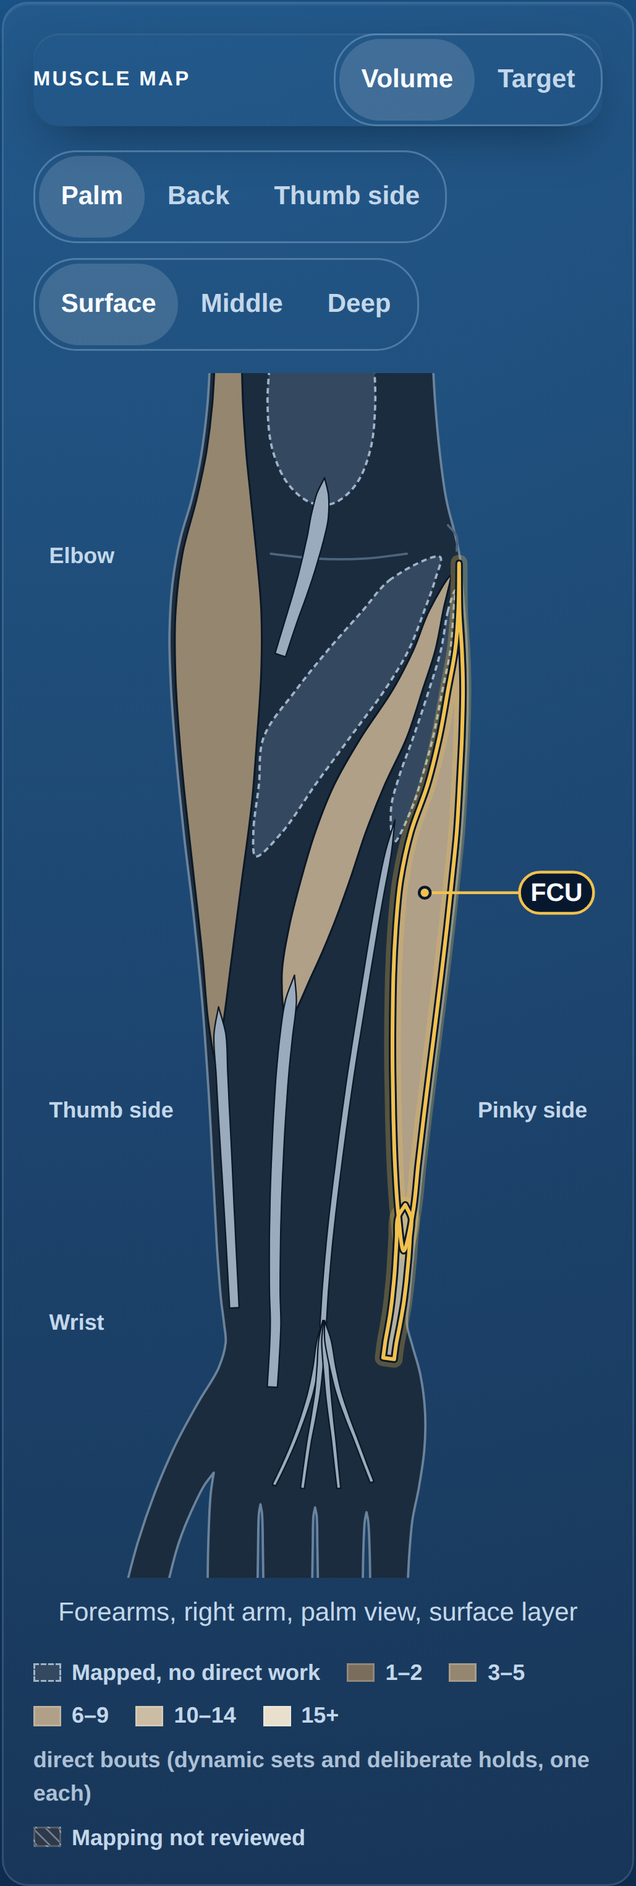
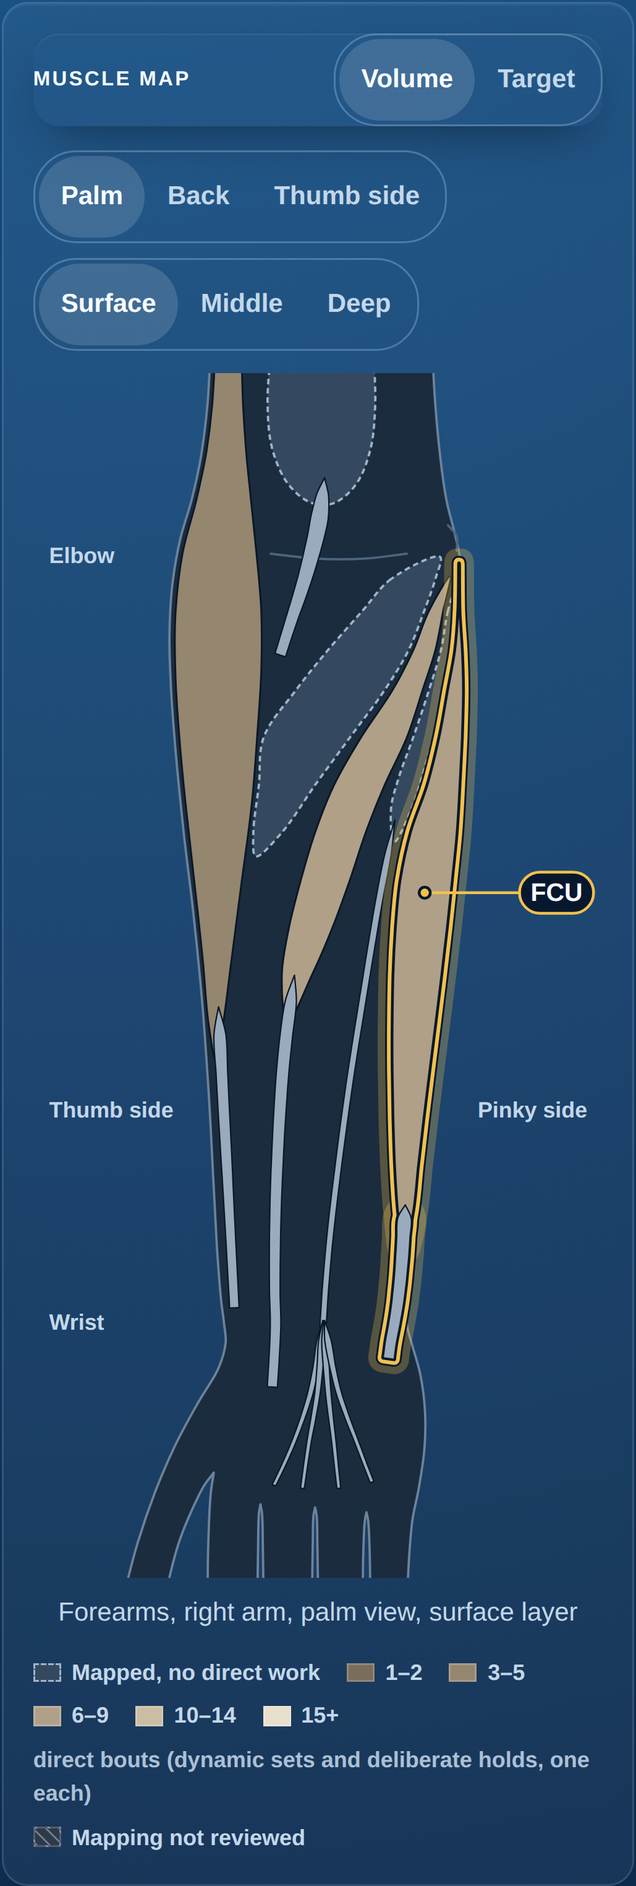
Specialization atlas: forearm diagram review fixes (tap targets, keyboard, selection)
- Keyboard: the one tab stop now moves with focus (roving tabindex). Before,
  it stayed on the selected or first muscle, so Tab from a muscle reached with
  the arrow keys could land on that muscle again, a second stop inside the
  drawing (reproduced in Chromium on the built page). Shift+Tab now returns to
  the muscle last focused.
- Tap squares: they sit above the bellies, so a tap on a neighbour under a
  square selects the square's muscle. Placement now takes, among the places
  that keep each square clear of the others and on the canvas, the one that
  covers the least of other muscles as drawn (a raster of which belly is on
  top, built once per layer and cached; 1 to 11 ms per layer). Drawn belly
  area under another muscle's square: back surface 12.9 % to 4.9 % (EPB 45 %
  to 24 %), thumb-side surface 10.2 % to 4.4 %, thumb-side deep 6.7 % to
  3.6 %; bounded by a test. Every muscle keeps an exclusive square of at least
  47 px at 324 px wide (hit-targets.json).
- Callout: the selected muscle's leader line now ends on the drawing. BR from
  behind runs off the top of the canvas and its anchor sat at y -8, so the
  line pointed off the drawing; anchors are now taken from the part of the
  belly on the canvas (tested on every layer).
- Selection outline: drawn outside the muscle's bellies and tendons only
  (masked inside them), so a belly and the tendon that starts inside its tip
  are outlined as one shape. Before, the two outlines crossed where they meet.
[…]

Changed region(s): [[0.5598, 0.2805, 0.7775, 0.748]]

diff --git a/client/src/components/specialization/diagramGeometry.ts b/client/src/components/specialization/diagramGeometry.ts
@@ -129,6 +129,65 @@ export function sliceCentres(points: readonly Point[], count = 48): { point: Poi
   return out;
 }
 
+/** Even-odd point-in-polygon test. */
+export function containsPoint(points: readonly Point[], point: Point): boolean {
+  let inside = false;
+  for (let i = 0, j = points.length - 1; i < points.length; j = i++) {
+    const a = points[i];
+    const b = points[j];
+    if ((a.y > point.y) !== (b.y > point.y) && point.x < a.x + ((point.y - a.y) * (b.x - a.x)) / (b.y - a.y)) inside = !inside;
+  }
+  return inside;
+}
+
+type Box = { left: number; top: number; right: number; bottom: number };
+const boxOf = (points: readonly Point[]): Box => ({
+  left: Math.min(...points.map((point) => point.x)),
+  top: Math.min(...points.map((point) => point.y)),
+  right: Math.max(...points.map((point) => point.x)),
+  bottom: Math.max(...points.map((point) => point.y)),
+});
+
+/**
+ * Which node's belly is painted on top at a point (paint order: later paths are on top), or
+ * null over a gutter, a tendon, bone or skin. The tap squares are scored with it. Worked out
+ * once per layer as a raster of RASTER_CELL-unit cells, filled row by row from each belly's
+ * slices, so scoring a square is a few look-ups rather than point-in-polygon tests.
+ */
+function topBellyAt(bellies: readonly { nodeId: string; points: Point[]; box: Box }[]) {
+  if (!bellies.length) return () => null;
+  const left = Math.floor(Math.min(...bellies.map((belly) => belly.box.left)));
+  const top = Math.floor(Math.min(...bellies.map((belly) => belly.box.top)));
+  const cols = Math.ceil((Math.max(...bellies.map((belly) => belly.box.right)) - left) / RASTER_CELL) + 1;
+  const rows = Math.ceil((Math.max(...bellies.map((belly) => belly.box.bottom)) - top) / RASTER_CELL) + 1;
+  const owners = new Int16Array(cols * rows).fill(-1);
+  bellies.forEach((belly, index) => {
+    const firstRow = Math.max(0, Math.floor((belly.box.top - top) / RASTER_CELL));
+    const lastRow = Math.min(rows - 1, Math.ceil((belly.box.bottom - top) / RASTER_CELL));
+    for (let row = firstRow; row <= lastRow; row++) {
+      for (const [from, to] of slice(belly.points, top + (row + 0.5) * RASTER_CELL)) {
+        const firstCol = Math.max(0, Math.ceil((from - left) / RASTER_CELL - 0.5));
+        const lastCol = Math.min(cols - 1, Math.floor((to - left) / RASTER_CELL - 0.5));
+        for (let col = firstCol; col <= lastCol; col++) owners[row * cols + col] = index;
+      }
+    }
+  });
+  return (point: Point): string | null => {
+    const col = Math.floor((point.x - left) / RASTER_CELL);
+    const row = Math.floor((point.y - top) / RASTER_CELL);
+    if (col < 0 || row < 0 || col >= cols || row >= rows) return null;
+    const index = owners[row * cols + col];
+    return index < 0 ? null : bellies[index].nodeId;
+  };
+}
+
+/** Raster cell for topBellyAt, in view-box units. */
+const RASTER_CELL = 2;
+/** Samples per side when scoring how much of other muscles a tap square would cover. */
+const COVER_SAMPLES = 6;
+/** A label anchor stays this far inside the canvas, so the leader line ends on the drawing. */
+const ANCHOR_MARGIN = 14;
+
 export type DrawnNode = {
   nodeId: string;
   /** Belly paths in draw order. */
@@ -154,28 +213,52 @@ export type DrawnNode = {
 export function drawnNodes(paths: readonly DiagramPath[], options: { square?: number; canvas?: { width: number; height: number } } = {}): DrawnNode[] {
   const side = options.square ?? 0;
   const canvas = options.canvas ?? null;
+  // One asset's layers are fixed module data, so each is worked out once per square size.
+  const cacheKey = `${side}|${canvas ? `${canvas.width}x${canvas.height}` : "-"}`;
+  const cached = placementCache.get(paths)?.get(cacheKey);
+  if (cached) return cached;
+
   const byNode = new Map<string, { bellies: DiagramPath[]; tendons: DiagramPath[] }>();
+  // Every belly as drawn, in paint order (the paths' order: later is on top).
+  const bellyShapes: { nodeId: string; points: Point[]; box: Box }[] = [];
+  const pointsOf = new Map<DiagramPath, Point[]>();
+  for (const path of paths) {
+    if (path.kind !== "belly" || !path.nodeId) continue;
+    const points = flattenPath(path.d);
+    pointsOf.set(path, points);
+    bellyShapes.push({ nodeId: path.nodeId, points, box: boxOf(points) });
+  }
+  const ownerAt = topBellyAt(bellyShapes);
   for (const path of paths) {
     if (!path.nodeId || (path.kind !== "belly" && path.kind !== "tendon")) continue;
     const entry = byNode.get(path.nodeId) ?? { bellies: [], tendons: [] };
     (path.kind === "belly" ? entry.bellies : entry.tendons).push(path);
     byNode.set(path.nodeId, entry);
   }
+  // A label anchor on the canvas: a belly that runs off the edge of the drawing is labelled
+  // where it is drawn, never at a point the leader line cannot reach.
+  const onCanvas = (point: Point) => !canvas || (point.y >= ANCHOR_MARGIN && point.y <= canvas.height - ANCHOR_MARGIN && point.x >= 0 && point.x <= canvas.width);
   const nodes = Array.from(byNode.entries())
     .filter(([, entry]) => entry.bellies.length > 0)
     .map(([nodeId, entry]) => {
-      const polygons = entry.bellies.map((path) => flattenPath(path.d));
+      const polygons = entry.bellies.map((path) => pointsOf.get(path) ?? flattenPath(path.d));
       const areas = polygons.map(polygonArea);
       const largest = polygons[areas.indexOf(Math.max(...areas))];
-      const centres = sliceCentres(largest);
+      const all = sliceCentres(largest);
+      const visible = all.filter((item) => onCanvas(item.point));
+      const centres = visible.length ? visible : all;
       const widest = centres.reduce((best, item) => (item.width > best.width ? item : best), centres[0] ?? { point: { x: 0, y: 0 }, width: 0 });
-      return { nodeId, ...entry, area: areas.reduce((sum, value) => sum + value, 0), labelAnchor: widest.point, hitAnchor: widest.point, centres };
+      // Tap-square candidates: across every belly of the node, each slice's middle and its quarter points.
+      const candidates = polygons.flatMap((points) => sliceCentres(points).flatMap(({ point, width }) => [0, -0.25, 0.25].map((shift) => ({ point: { x: point.x + shift * width, y: point.y }, width }))));
+      return { nodeId, ...entry, area: areas.reduce((sum, value) => sum + value, 0), labelAnchor: widest.point, hitAnchor: widest.point, candidates };
     });
 
   // Tap squares, smallest node first (it has the fewest places to go): each takes the point
   // inside its own belly whose square overlaps no square already placed (Chebyshev distance
-  // of a full side) and stays on the canvas, preferring wide slices and, among equals, the
-  // node's widest point. Bigger nodes, placed later, have room to step round the small ones.
+  // of a full side) and stays on the canvas. Among those it takes the one that covers the
+  // least of other muscles as drawn, because the squares sit above the bellies and a tap on a
+  // neighbour under a square selects the square's muscle; then wide slices, then the node's
+  // widest point. Bigger nodes, placed later, have room to step round the small ones.
   const placed: Point[] = [];
   // The side a square centred here could have without touching a placed square or leaving the canvas.
   const room = (point: Point) => Math.min(
@@ -183,18 +266,44 @@ export function drawnNodes(paths: readonly DiagramPath[], options: { square?: nu
     ...placed.map((other) => Math.max(Math.abs(other.x - point.x), Math.abs(other.y - point.y))),
     ...(canvas ? [2 * point.x, 2 * (canvas.width - point.x), 2 * point.y, 2 * (canvas.height - point.y)] : []),
   );
+  // Share of the square over another muscle's belly as drawn, and over its own.
+  const cover = (nodeId: string, centre: Point) => {
+    let other = 0;
+    let own = 0;
+    for (let i = 0; i < COVER_SAMPLES; i++) {
+      for (let j = 0; j < COVER_SAMPLES; j++) {
+        const owner = ownerAt({ x: centre.x + side * ((i + 0.5) / COVER_SAMPLES - 0.5), y: centre.y + side * ((j + 0.5) / COVER_SAMPLES - 0.5) });
+        if (owner === nodeId) own++;
+        else if (owner !== null) other++;
+      }
+    }
+    const total = COVER_SAMPLES * COVER_SAMPLES;
+    return { other: other / total, own: own / total };
+  };
   for (const node of [...nodes].sort((left, right) => left.area - right.area)) {
     let best = node.hitAnchor;
     let bestScore = -Infinity;
-    for (const centre of node.centres) {
-      const score = room(centre.point) * 100 + centre.width - Math.hypot(centre.point.x - node.labelAnchor.x, centre.point.y - node.labelAnchor.y) / 100;
-      if (score > bestScore) { bestScore = score; best = centre.point; }
+    for (const candidate of node.candidates) {
+      const free = room(candidate.point);
+      // Room first and by far (a square that touches another is never chosen over one that does not).
+      let score = free * 1e5 + candidate.width - Math.hypot(candidate.point.x - node.labelAnchor.x, candidate.point.y - node.labelAnchor.y) / 100;
+      if (side > 0 && free * 1e5 >= bestScore - 1e4) {
+        const { other, own } = cover(node.nodeId, candidate.point);
+        score += -other * 1000 + own * 100;
+      }
+      if (score > bestScore) { bestScore = score; best = candidate.point; }
     }
     node.hitAnchor = best;
     placed.push(best);
   }
-  return nodes.map(({ centres: _centres, ...node }) => node);
+  const result = nodes.map(({ candidates: _candidates, ...node }) => node);
+  const forPaths = placementCache.get(paths) ?? new Map<string, DrawnNode[]>();
+  forPaths.set(cacheKey, result);
+  placementCache.set(paths, forPaths);
+  return result;
 }
+
+const placementCache = new WeakMap<readonly DiagramPath[], Map<string, DrawnNode[]>>();
 
 export type Placement = { view: DiagramViewId; layer: DiagramLayerId };
 

diff --git a/client/src/components/specialization/SpecializationDiagram.tsx b/client/src/components/specialization/SpecializationDiagram.tsx
@@ -29,11 +29,13 @@ export type SpecializationDiagramProps = {
  *   1. The asset's paths in their own order: skin, bone, ghost outlines of the layer above,
  *      bellies (painted by `fillFor`), tendons (always neutral: a tendon is not muscle bulk,
  *      brief §6), creases.
- *   2. The selected muscle's outline: a soft halo, a dark keyline and a gold line, so it reads
- *      on the palest exposure step and on the dark ground alike, never by hue alone.
+ *   2. The selected muscle's outline, round its bellies and tendons as one shape (masked to the
+ *      outside): a dark keyline, a gold line, a dark keyline and a soft halo, so it reads on the
+ *      palest exposure step and on the dark ground alike, never by hue alone.
  *   3. The tap targets (invisible): every belly widened across its gutters, every belly as
  *      drawn above those, and on top one 44 pt square per muscle, placed inside its own belly
- *      and clear of every other square. Largest muscle first, so a smaller one wins a tie.
+ *      and clear of every other square, where it covers the least of other muscles as drawn
+ *      (a tap there selects the square's muscle). Largest first, so a smaller one wins a tie.
  *   4. Text, outside the mirror: the anatomy labels and the selected muscle's name.
  *
  * Mirroring flips the drawing for the left arm and re-places every label (x and anchor), so
@@ -90,7 +92,11 @@ export function SpecializationDiagram({ asset, view, layer, mirrored, fillFor, s
   const uid = useId().replace(/[^a-zA-Z0-9_-]/g, "");
   const hatchId = `${uid}-hatch`;
   const noteId = `${uid}-note`;
+  const maskId = `${uid}-selection-mask`;
   const [focusedNodeId, setFocusedNodeId] = useState<string | null>(null);
+  // The muscle that last had focus, by any means: the one tab stop moves with it, so Tab from
+  // a muscle reached with the arrow keys leaves the drawing instead of landing on another muscle.
+  const [rovingNodeId, setRovingNodeId] = useState<string | null>(null);
   const { width, height } = asset.viewBox;
   const drawn = asset.views[view]?.[layer] ?? null;
   const paths = drawn?.paths ?? [];
@@ -106,9 +112,16 @@ export function SpecializationDiagram({ asset, view, layer, mirrored, fillFor, s
     [nodes, mirrored, width],
   );
   const selected = nodes.find((node) => node.nodeId === selectedNodeId) ?? null;
-  const tabbable = selected?.nodeId ?? focusOrder[0]?.nodeId ?? null;
+  const roving = nodes.some((node) => node.nodeId === rovingNodeId) ? rovingNodeId : null;
+  const tabbable = roving ?? selected?.nodeId ?? focusOrder[0]?.nodeId ?? null;
 
-  const describe = (nodeId: string) => `${describeFor?.(nodeId) ?? labelFor(nodeId)}${nodeId === selectedNodeId ? ", selected" : ""}`;
+  // The page's description is sentences ("<Name>. 3 direct dynamic bouts."): the state
+  // follows as its own sentence, never as ".,".
+  const describe = (nodeId: string) => {
+    const text = (describeFor?.(nodeId) ?? labelFor(nodeId)).trim();
+    if (nodeId !== selectedNodeId) return text;
+    return /[.!?]$/.test(text) ? `${text} Selected.` : `${text}, selected`;
+  };
   const moveFocus = (from: string, step: number) => {
     const index = focusOrder.findIndex((node) => node.nodeId === from);
     if (index < 0 || !focusOrder.length) return;
@@ -142,6 +155,7 @@ export function SpecializationDiagram({ asset, view, layer, mirrored, fillFor, s
     anchor: mirrored && label.anchor !== "middle" ? (label.anchor === "start" ? "end" : "start") : label.anchor,
   }));
   const callout = selected ? calloutFor(selected, labelFor(selected.nodeId), labels, { width, height, flipX }) : null;
+  const outlined = selected ? [...selected.bellies, ...selected.tendons] : [];
   const mirror = mirrored ? `translate(${width} 0) scale(-1 1)` : undefined;
   const square = HIT_SQUARE_SHARE * width;
 
@@ -162,6 +176,13 @@ export function SpecializationDiagram({ asset, view, layer, mirrored, fillFor, s
             <rect width="6" height="6" fill="#2e3a49" />
             <rect width="1.2" height="6" fill="#6f7d90" />
           </pattern>
+          {/* The selected muscle's outline is drawn outside its shapes only: a belly and the
+              tendon that starts inside its tip are outlined as one shape, with no crossing
+              lines where they join. In the user space of the (possibly mirrored) drawing. */}
+          {selected && <mask id={maskId} maskUnits="userSpaceOnUse" x={-width} y={-height} width={width * 3} height={height * 3}>
+            <rect x={-width} y={-height} width={width * 3} height={height * 3} fill="#fff" />
+            {outlined.map((path) => <path key={path.id} d={path.d} fill="#000" />)}
+          </mask>}
         </defs>
 
         <g transform={mirror}>
@@ -169,10 +190,9 @@ export function SpecializationDiagram({ asset, view, layer, mirrored, fillFor, s
             {paths.map((path) => <ArtPath key={path.id} path={path} fill={path.kind === "belly" && path.nodeId ? fillFor(path.nodeId) : null} hatchId={hatchId} selectedNodeId={selectedNodeId} />)}
           </g>
 
-          {selected && <g className="spz-diagram-selection" aria-hidden="true" data-node={selected.nodeId}>
-            {[...selected.bellies, ...selected.tendons].map((path) => <path key={`halo-${path.id}`} className="spz-diagram-halo" d={path.d} />)}
-            {[...selected.bellies, ...selected.tendons].map((path) => <path key={`key-${path.id}`} className="spz-diagram-keyline" d={path.d} />)}
-            {[...selected.bellies, ...selected.tendons].map((path) => <path key={`ring-${path.id}`} className="spz-diagram-ring" d={path.d} />)}
+          {selected && <g className="spz-diagram-selection" aria-hidden="true" data-node={selected.nodeId} mask={`url(#${maskId})`}>
+            {/* Outside the shape, from it outwards: dark keyline, gold line, dark keyline, soft halo. */}
+            {(["halo", "outer-keyline", "ring", "keyline"] as const).map((part) => outlined.map((path) => <path key={`${part}-${path.id}`} className={`spz-diagram-${part}`} d={path.d} />))}
           </g>}
 
           {focusedNodeId && <g className="spz-diagram-focus" aria-hidden="true">
@@ -207,7 +227,7 @@ export function SpecializationDiagram({ asset, view, layer, mirrored, fillFor, s
                 data-hit={node.nodeId}
                 onClick={() => onSelect(node.nodeId)}
                 onKeyDown={onKeyDown(node.nodeId)}
-                onFocus={(event) => setFocusedNodeId(focusVisible(event.currentTarget) ? node.nodeId : null)}
+                onFocus={(event) => { setRovingNodeId(node.nodeId); setFocusedNodeId(focusVisible(event.currentTarget) ? node.nodeId : null); }}
                 onBlur={() => setFocusedNodeId(null)}
               >
                 <rect x={node.hitAnchor.x - square / 2} y={node.hitAnchor.y - square / 2} width={square} height={square} />

diff --git a/client/src/components/specialization/SpecializationDiagram.render.test.ts b/client/src/components/specialization/SpecializationDiagram.render.test.ts
@@ -9,7 +9,7 @@ import { forearmRegionData } from "@shared/specialization/regions/forearm";
 import type { DiagramAsset, DiagramLayerId, DiagramViewId } from "@shared/specialization/types";
 import { deltoidIds, deltoidRegionData } from "@/lib/specialization/__fixtures__/deltoidRegion";
 import { HIT_SQUARE_SHARE, SpecializationDiagram, type SpecializationDiagramProps } from "./SpecializationDiagram";
-import { drawnNodes } from "./diagramGeometry";
+import { containsPoint, drawnNodes, flattenPath } from "./diagramGeometry";
 import type { DiagramFill } from "./model";
 
 /**
@@ -126,7 +126,9 @@ describe("selection", () => {
     expect(drawnPaths.some((path) => path.kind === "tendon")).toBe(true);
     const callout = container.querySelector(".spz-diagram-callout")!;
     expect(callout.querySelector("text")!.textContent).toBe("FCR");
-    expect(screen.getByRole("button", { name: /^Flexor carpi radialis\..*, selected$/ }).getAttribute("aria-pressed")).toBe("true");
+    // The page's description is sentences; the state is a sentence after it, never ".,".
+    expect(screen.getByRole("button", { name: "Flexor carpi radialis. 3 direct dynamic bouts. Selected." }).getAttribute("aria-pressed")).toBe("true");
+    expect(screen.getAllByRole("button").filter((button) => /\.,/.test(button.getAttribute("aria-label") ?? ""))).toEqual([]);
     expect(screen.getAllByRole("button").filter((button) => button.getAttribute("aria-pressed") === "true")).toHaveLength(1);
   });
 
@@ -157,6 +159,33 @@ describe("selection", () => {
     expect(onSelect).toHaveBeenCalledWith(document.activeElement!.getAttribute("data-node"));
     fireEvent.keyDown(document.activeElement!, { key: " " });
     expect(onSelect).toHaveBeenCalledTimes(2);
+  });
+
+  it("moves the one tab stop with focus, so Tab from a muscle reached by arrow leaves the drawing", () => {
+    // Before: the stop stayed on the selected (or first) muscle, so Tab from a muscle reached
+    // with the arrows could land on that muscle again, a second stop inside the drawing.
+    draw({ view: "back", layer: "surface", selectedNodeId: m.extensorCarpiUlnaris });
+    const stops = () => screen.getAllByRole("button").filter((button) => button.getAttribute("tabindex") === "0");
+    const ecu = screen.getAllByRole("button").find((button) => button.getAttribute("data-node") === m.extensorCarpiUlnaris)!;
+    act(() => { ecu.focus(); });
+    for (const key of ["ArrowDown", "ArrowDown", "ArrowUp", "End", "Home"]) {
+      fireEvent.keyDown(document.activeElement!, { key });
+      expect(stops(), key).toEqual([document.activeElement]);
+    }
+  });
+
+  it("outlines a muscle and its tendons as one shape: the outline is masked off inside them", () => {
+    const { container } = draw({ selectedNodeId: m.brachioradialis });
+    const selection = container.querySelector(".spz-diagram-selection")!;
+    const maskId = selection.getAttribute("mask")!.match(/url\(#(.+)\)/)![1];
+    const mask = container.querySelector(`mask[id="${maskId}"]`)!;
+    const outlined = asset.views.palm!.surface!.paths.filter((path) => path.nodeId === m.brachioradialis && (path.kind === "belly" || path.kind === "tendon"));
+    expect(outlined.some((path) => path.kind === "tendon")).toBe(true);
+    expect(Array.from(mask.querySelectorAll("path")).map((path) => [path.getAttribute("d"), path.getAttribute("fill")])).toEqual(outlined.map((path) => [path.d, "#000"]));
+    expect(mask.querySelector("rect")!.getAttribute("fill")).toBe("#fff");
+    // Mask in user space, larger than the canvas, so a halo round a thin tendon is not clipped.
+    expect(mask.getAttribute("maskUnits")).toBe("userSpaceOnUse");
+    expect(Number(mask.getAttribute("width"))).toBeGreaterThan(asset.viewBox.width);
   });
 });
 
@@ -253,6 +282,40 @@ describe("tap targets on a phone", () => {
         const a = placedNodes[i].hitAnchor;
         const b = placedNodes[j].hitAnchor;
         expect(Math.max(Math.abs(a.x - b.x), Math.abs(a.y - b.y)), `${view}/${layer}: ${placedNodes[i].nodeId} and ${placedNodes[j].nodeId}`).toBeGreaterThanOrEqual(side - 0.01);
+      }
+    }
+  });
+
+  it("places each square where it covers little of other muscles as drawn (a tap there selects the square's muscle)", () => {
+    // The squares sit above the bellies. Measured share of drawn belly area under another
+    // muscle's square, before this placement: palm surface 3.2 %, back surface 12.9 % (EPB 45 %),
+    // back deep 3.8 %, thumb surface 10.2 % (ECRB 28 %), thumb deep 6.7 %.
+    const bounds: Record<string, number> = { "palm/surface": 0.03, "palm/intermediate": 0, "palm/deep": 0.01, "back/surface": 0.065, "back/deep": 0.015, "thumb/surface": 0.055, "thumb/deep": 0.05 };
+    for (const [view, layer] of views) {
+      const paths = asset.views[view]![layer]!.paths;
+      const bellies = paths.filter((path) => path.kind === "belly" && path.nodeId).map((path) => ({ nodeId: path.nodeId!, points: flattenPath(path.d) }));
+      const placed = drawnNodes(paths, { square: side, canvas: asset.viewBox });
+      let drawn = 0;
+      let taken = 0;
+      for (let y = 1; y < asset.viewBox.height; y += 3) {
+        for (let x = 1; x < asset.viewBox.width; x += 3) {
+          const top = [...bellies].reverse().find((belly) => containsPoint(belly.points, { x, y }));
+          if (!top) continue;
+          drawn++;
+          const square = placed.find((node) => Math.abs(node.hitAnchor.x - x) <= side / 2 && Math.abs(node.hitAnchor.y - y) <= side / 2);
+          if (square && square.nodeId !== top.nodeId) taken++;
+        }
+      }
+      expect(taken / drawn, `${view}/${layer}`).toBeLessThanOrEqual(bounds[`${view}/${layer}`]);
+    }
+  });
+
+  it("keeps every selected muscle's label anchor on the drawing, so its leader line ends on it", () => {
+    // Before: BR in the back view runs off the top of the canvas and its anchor sat at y -8.
+    for (const [view, layer] of views) {
+      for (const node of drawnNodes(asset.views[view]![layer]!.paths, { square: side, canvas: asset.viewBox })) {
+        expect(node.labelAnchor.y, `${view}/${layer} ${node.nodeId}`).toBeGreaterThanOrEqual(10);
+        expect(node.labelAnchor.y, `${view}/${layer} ${node.nodeId}`).toBeLessThanOrEqual(asset.viewBox.height - 10);
       }
     }
   });

diff --git a/client/src/components/specialization/specialization-diagram.css b/client/src/components/specialization/specialization-diagram.css
@@ -33,11 +33,14 @@
 .spz-diagram-belly[data-fill="zero"] { stroke: var(--spz-diagram-zero-edge); stroke-width: 1.25; stroke-dasharray: 3 2; }
 .spz-diagram-tendon { fill: var(--spz-diagram-tendon); stroke: var(--spz-diagram-keyline); stroke-width: .75; stroke-linejoin: round; vector-effect: non-scaling-stroke; }
 
-/* The selected muscle: a soft halo, a dark keyline, a gold line. */
+/* The selected muscle, outside its shapes only (the inner half of each stroke is masked off, so
+   belly and tendons read as one outline): from the edge out, a 1 px dark keyline, a 2 px gold
+   line, a 1 px dark keyline, a soft halo. Readable on the palest exposure step and on the ground. */
 .spz-diagram-selection path { fill: none; stroke-linejoin: round; stroke-linecap: round; vector-effect: non-scaling-stroke; pointer-events: none; }
-.spz-diagram-halo { stroke: var(--spz-diagram-selected); stroke-width: 9; stroke-opacity: .28; }
-.spz-diagram-keyline { stroke: #07182e; stroke-width: 4; }
-.spz-diagram-ring { stroke: var(--spz-diagram-selected); stroke-width: 2; }
+.spz-diagram-halo { stroke: var(--spz-diagram-selected); stroke-width: 16; stroke-opacity: .28; }
+.spz-diagram-outer-keyline { stroke: #07182e; stroke-width: 8; }
+.spz-diagram-ring { stroke: var(--spz-diagram-selected); stroke-width: 6; }
+.spz-diagram-keyline { stroke: #07182e; stroke-width: 2; }
 
 /* Keyboard focus is its own colour, never the selected gold. */
 .spz-diagram-focus path { fill: none; stroke: var(--sg-focus-ring, #3b86db); stroke-width: 3; stroke-linejoin: round; vector-effect: non-scaling-stroke; pointer-events: none; }

diff --git a/docs/specialization-atlas/08-diagram.md b/docs/specialization-atlas/08-diagram.md
@@ -73,10 +73,10 @@ All 19 core muscles are drawn as a belly in at least one view and layer (tested)
 
 - **Contract.** `SpecializationDiagram` keeps the page's props (`asset`, `view`, `layer`, `mirrored`, `fillFor`, `selectedNodeId`, `onSelect`, `labelFor`, `describeFor`, `caption`) and names no region: a test reads its source for region and muscle words, and the deltoid fixture renders through it unchanged.
 - **Fills match the legend beside it.** `bin` n paints `--sg-exposure-n` (held to 1–5), `zero` the resting muscle tone with a dashed `#9fb3c8` edge ("Mapped, no direct work"), `hatch` the legend's own hatch (`#2e3a49` with `#6f7d90` stripes slanting the same way, "Mapping not reviewed"; on the left arm the pattern is flipped back inside the mirrored drawing, so the stripes still slant the legend's way, tested), `none` the resting tone ("Not targeted"). The test compares these with `specialization.css`. Tendons are a cool neutral grey that is not on the ramp; ghosts are dashed outlines; bone is a lighter dark with its own edge. Rank colours are never used.
-- **Selection** is an outline and a name, not a hue: a soft gold halo, a dark keyline and a gold line round the muscle's bellies and tendons (readable on the palest exposure step and on the dark ground), and the muscle's abbreviation in a pill in the margin on its side, with a leader line, kept off the anatomy labels.
+- **Selection** is an outline and a name, not a hue: from the edge outwards a dark keyline, a gold line, a dark keyline and a soft gold halo, drawn round the muscle's bellies and tendons as one shape (the outline is masked off inside them, so there are no crossing lines where a tendon starts inside its belly; readable on the palest exposure step and on the dark ground), and the muscle's abbreviation in a pill in the margin on its side, with a leader line to the muscle's widest point on the canvas (a belly that runs off the top, such as BR from behind, is pointed at where it is drawn), kept off the anatomy labels.
 - **A selection never drops.** When the selected muscle is not on the layer shown, the caption says where it is ("FDS is not drawn on this layer. It is drawn in Palm · Middle."), as a note the drawing points to with `aria-describedby`; when it lies above the layer, its dashed ghost turns gold and the note says so.
-- **Tap targets.** One square per muscle, 14.5 % of the drawing's width: 44.5 px on a 375 pt phone (drawing 307 px wide) and 46.5 px on a 390 pt phone (321 px), placed inside the muscle's own belly and clear of every other muscle's square and of the canvas edge. Under the squares, each belly as drawn takes taps on itself, and each belly widened across its gutters takes taps in the gaps. Labels and the selected muscle's name let taps through. Measured in Chromium with `elementFromPoint` on every layer, every muscle has a square of screen at least 47 px across that selects it and nothing else (`evidence/hit-targets.json`, drawing 324 px wide).
-- **Keyboard and assistive technology.** Each muscle is a `role="button"` with `aria-pressed` and the page's `describeFor` text; one tab stop, arrow keys, Home and End move through the muscles top to bottom, Enter or Space selects. Keyboard focus draws a blue outline (the focus token, never the selection gold), and only for keyboard focus: a finger tap does not leave it behind.
+- **Tap targets.** One square per muscle, 14.5 % of the drawing's width: 44.5 px on a 375 pt phone (drawing 307 px wide) and 46.5 px on a 390 pt phone (321 px), placed inside the muscle's own belly and clear of every other muscle's square and of the canvas edge. The squares sit above the bellies, so a tap on a neighbour under a square selects the square's muscle: among the places that keep the square clear, each takes the one that covers the least of other muscles as drawn (measured, then bounded by a test: on the back surface 4.9 % of drawn belly area lies under another muscle's square, down from 12.9 %; thumb-side surface 4.4 %, from 10.2 %). Two thin neighbours cannot both have a 44 pt square without one covering part of the other: EPB loses about a quarter of its drawn area to APL's square on the back surface and a third to EPL's on the thumb-side deep layer. Under the squares, each belly as drawn takes taps on itself, and each belly widened across its gutters takes taps in the gaps. On a 320 pt screen the drawing is about 254 px wide and the squares about 37 px; 320 pt is below the phones the app is designed for (CLAUDE.md: 375 to 430 pt). Labels and the selected muscle's name let taps through. Measured in Chromium with `elementFromPoint` on every layer, every muscle has a square of screen at least 47 px across that selects it and nothing else (`evidence/hit-targets.json`, drawing 324 px wide).
+- **Keyboard and assistive technology.** Each muscle is a `role="button"` with `aria-pressed` and the page's `describeFor` text; one tab stop, which moves with focus (roving tabindex), so Tab from a muscle reached with the arrows leaves the drawing and Shift+Tab comes back to it; arrow keys, Home and End move through the muscles top to bottom, Enter or Space selects. Keyboard focus draws a blue outline (the focus token, never the selection gold), and only for keyboard focus: a finger tap does not leave it behind.
 - **Motion.** Fills change over `--sg-motion-base`; nothing moves on its own; reduced motion removes the transition.
 
 ## Evidence (headless Chromium emulating an iPhone; not an iPhone, not Safari)
